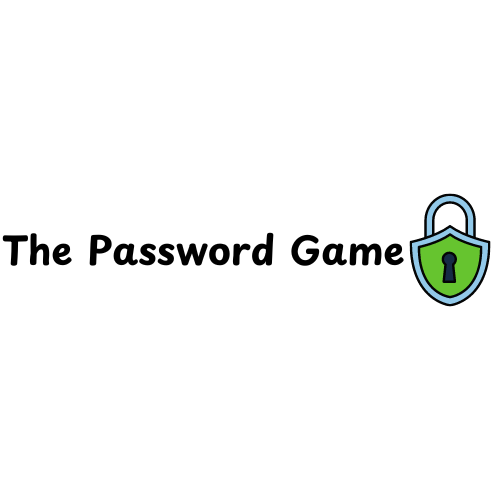
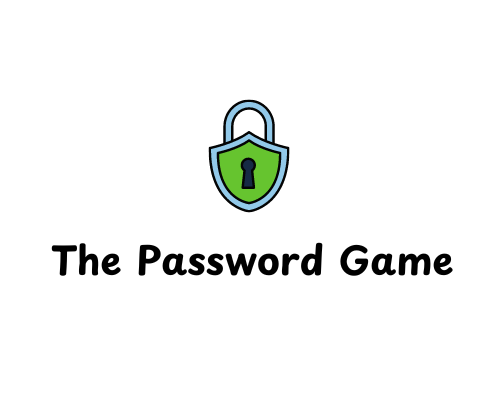
Normalement avant dernier commit

Changed region(s): [[0.18, 0.2313, 0.99, 0.6651], [0.0, 0.4627, 0.15, 0.5494], [0.09, 0.5783, 0.24, 0.6651]]

diff --git a/style/css/technole.css b/style/css/technole.css
@@ -1,13 +1,3 @@
-body {
-    font-family: "Playpen Sans", sans-serif;
-    display: flex;
-    justify-content: center;
-    align-items: center;
-    height: 100vh;
-    background-color: #e8f0f2; /* Couleur de fond douce */
-    margin: 0; /* Supprimer les marges par défaut */
-}
-
 .playpen-sans {
     font-family: "Playpen Sans", system-ui;
     font-optical-sizing: auto;
@@ -15,12 +5,39 @@ body {
     font-style: normal;
 }
 
+body {
+    font-family: "Playpen Sans", sans-serif;
+    
+    background-color: white; /* Couleur de fond douce */
+    margin: 0; /* Supprimer les marges par défaut */
+}
+
+.title {
+    position: relative;
+}
+
+.title img {
+    position: absolute;
+    top: 4px;
+    left: 5px;
+    width: 100px;
+    cursor: pointer;
+    transition: transform 0.2s;
+}
+.title img:hover {
+    transform: scale(1.05); /* Agrandit légèrement l'image au survol */
+}
+
 .container {
+    display: flex;
+    flex-direction: column;
+    justify-content: center;
+    align-items: center;
+    height: 100vh;
     text-align: center;
-    background-color: #ffffff; /* Fond blanc pour le conteneur */
+    background-color: white; /* Fond blanc pour le conteneur */
     padding: 20px; /* Espacement interne */
     border-radius: 10px; /* Coins arrondis */
-    box-shadow: 0 4px 20px rgba(0, 0, 0, 0.1); /* Ombre portée */
 }
 
 h1 {

diff --git a/style/css/EPSIvsWIS.css b/style/css/EPSIvsWIS.css
@@ -10,10 +10,6 @@ body {
     font-family: Arial, sans-serif;
     margin: 0;
     padding: 0;
-    display: flex;
-    flex-direction: column;
-    align-items: center;
-    justify-content: center;
     height: 100vh;
     background-color: #f0f0f0;
 }
@@ -22,18 +18,18 @@ body {
     position: relative;
   }
   
-  .title img {
-    justify-content: start;
-    top: 4px;
-    right: 8%;
+.title img {
+    position: absolute;
+    top: 9px;
+    left: 7px;
     width: 100px;
     cursor: pointer;
     transition: transform 0.2s;
-  }
+}
   
-  .title img:hover {
+.title img:hover {
     transform: scale(1.05); /* Agrandit légèrement l'image au survol */
-  }
+}
 
 .header {
     position: absolute;

diff --git a/technole.html b/technole.html
@@ -10,7 +10,10 @@
     <link href="https://fonts.googleapis.com/css2?family=Playpen+Sans:wght@100..800&display=swap" rel="stylesheet">
 </head>
 <body>
-    <div class="container">
+    <header>
+        <div class="title"><img src="style/img/logo.png" onclick="window.location.href='index.html'"></div>
+    </header>
+        <div class="container">
         <h1>Technole</h1>
         <div id="board"></div>
         <input type="text" id="guessInput" maxlength="5" placeholder="Entrez votre mot">

diff --git a/EPSIvsWIS.html b/EPSIvsWIS.html
@@ -13,8 +13,8 @@
     <div class="header-bar"></div>
 
     <header class="title">
-        <img src="style/img/logo.png" alt="Logo" id="logo-home">
-        <h1 id="title"><em>EPSI vs WIS</em></h1>
+        <img src="style/img/logo.png" alt="Logo" id="logo-home" onclick="window.location.href='index.html'">
+        <h3 id="title"><em>EPSI vs WIS</em></h3>
     </header>
 
     <main class="container">

diff --git a/index.html b/index.html
@@ -55,8 +55,8 @@
 
 
         <div class="image-container">
-            <img src="style/img/kittygenerator.png">
-            <div class="image-title">Titre de l'image</div>
+            <img src="style/img/img-home/python_pendu.png">
+            <div class="image-title">Python pendu</div>
         </div>
     </div>
 </body>
